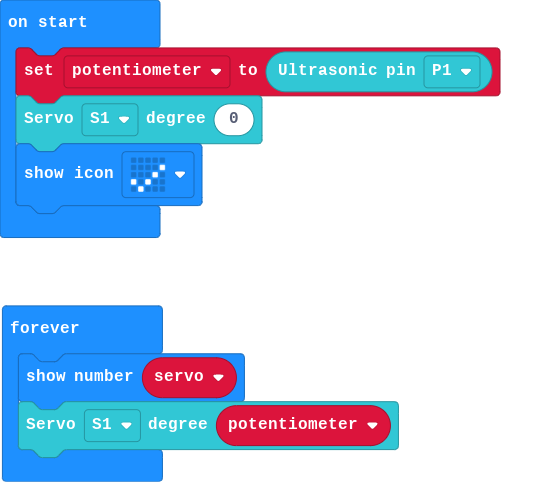
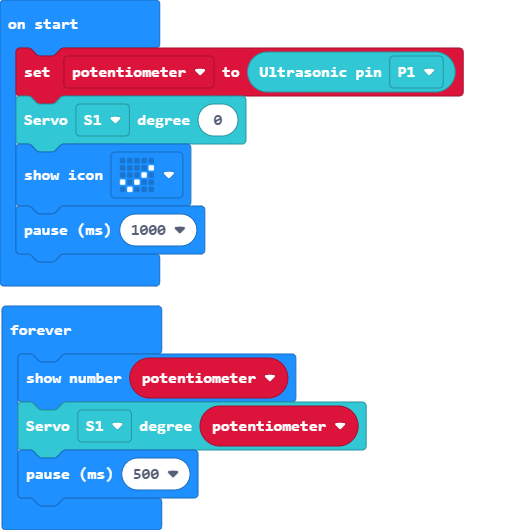
final commit

Changed region(s): [[0.0, 0.0, 0.932, 1.0]]

diff --git a/main.ts b/main.ts
@@ -1,8 +1,9 @@
 let potentiometer = robotbit.RgbUltrasonic(DigitalPin.P1)
 robotbit.Servo(robotbit.Servos.S1, 0)
 basic.showIcon(IconNames.Yes)
+basic.pause(1000)
 basic.forever(function () {
-    let servo = 0
-    basic.showNumber(servo)
+    basic.showNumber(potentiometer)
     robotbit.Servo(robotbit.Servos.S1, potentiometer)
+    basic.pause(500)
 })
